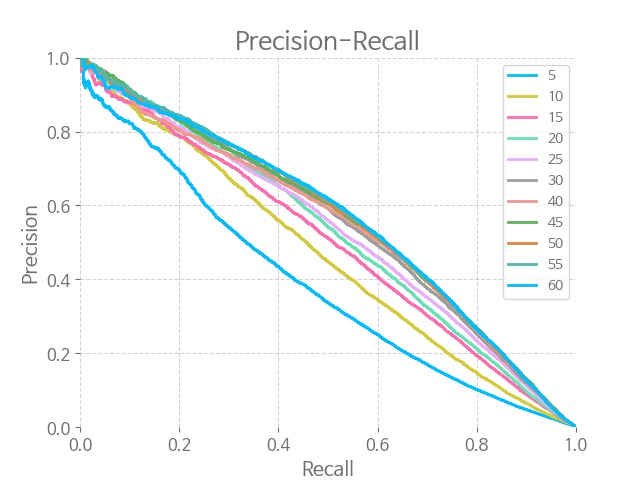
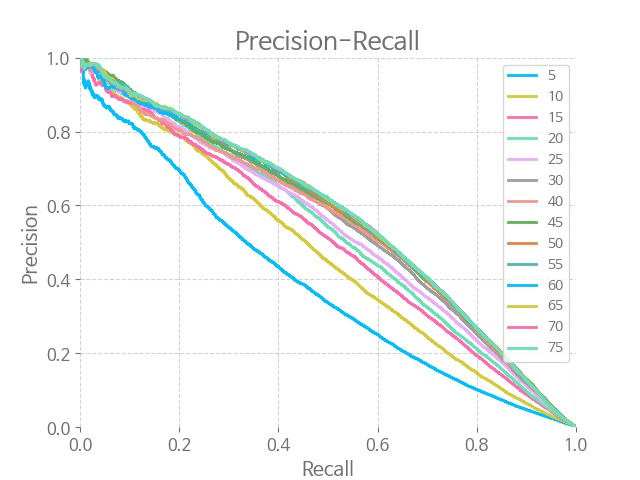
add lr decay

diff --git a/code/.ipynb_checkpoints/train-checkpoint.py b/code/.ipynb_checkpoints/train-checkpoint.py
@@ -261,8 +261,12 @@ def train(opt):
 #             print("positive_sample_loss : ",positive_sample_loss)
 #             print("negative_sample_loss : ",negative_sample_loss)
 #             print("="*120)
-            
-            pn_loss = (positive_sample_loss + negative_sample_loss)*0.5
+            if epoch < 10:
+                pn_loss = (positive_sample_loss + negative_sample_loss)*0.5
+            elif epoch < 80:
+                pn_loss = (positive_sample_loss + negative_sample_loss)*0.05
+            else:
+                pn_loss = (positive_sample_loss + negative_sample_loss)*0.005
 #             print("pn_loss: ", pn_loss)
 #             print("loss: ", loss)
             

diff --git a/code/train.py b/code/train.py
@@ -261,8 +261,12 @@ def train(opt):
 #             print("positive_sample_loss : ",positive_sample_loss)
 #             print("negative_sample_loss : ",negative_sample_loss)
 #             print("="*120)
-            
-            pn_loss = (positive_sample_loss + negative_sample_loss)*0.5
+            if epoch < 10:
+                pn_loss = (positive_sample_loss + negative_sample_loss)*0.5
+            elif epoch < 80:
+                pn_loss = (positive_sample_loss + negative_sample_loss)*0.05
+            else:
+                pn_loss = (positive_sample_loss + negative_sample_loss)*0.005
 #             print("pn_loss: ", pn_loss)
 #             print("loss: ", loss)
             
